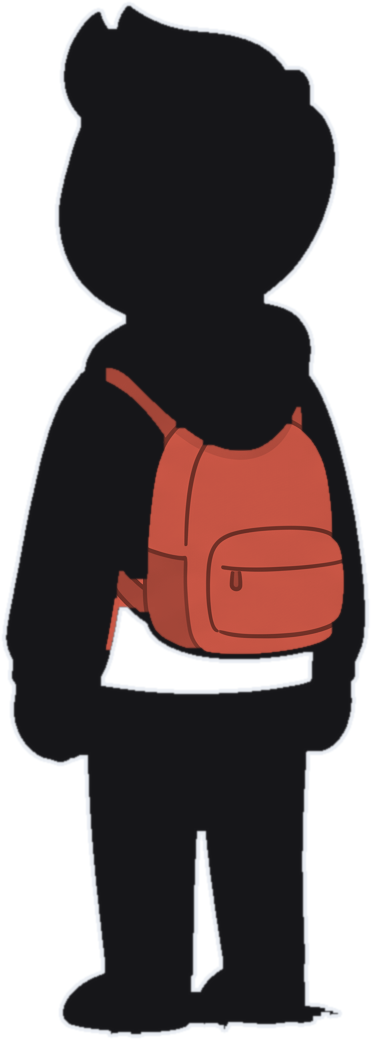
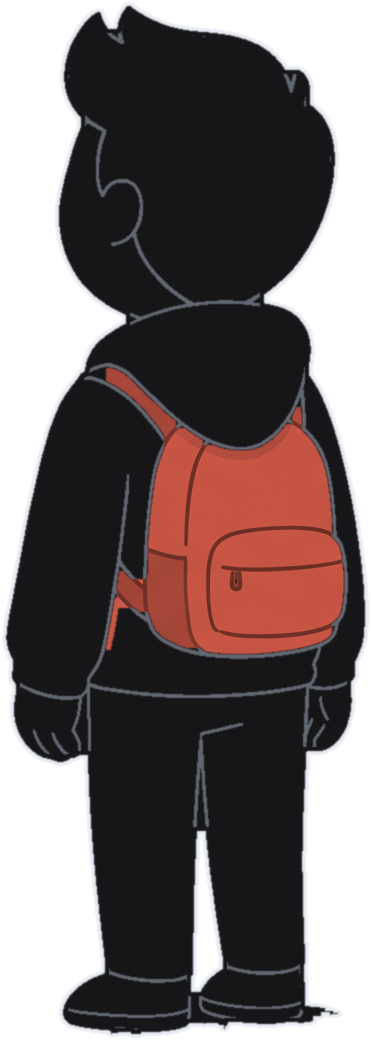
Personnages au style de Léa (cheveux en couleur, yeux blancs, traits fins gris, un détail de couleur, liseré clair) au lieu de silhouettes noires : decors/style_perso.py, enfants du bloc 3 et mère/garçon du bloc 4 re-détourés
Claude-Session: https://claude.ai/code/session_01MgEZztULRvgmbzKu3Bn3uF

diff --git a/video_production/lune/film/decors/style_perso.py b/video_production/lune/film/decors/style_perso.py
@@ -1,0 +1,66 @@
+"""Style des personnages du film, d'après Léa (bloc 2) : corps et visage sombres, MAIS cheveux dans leur couleur,
+yeux blancs ovales, traits fins gris (sourcils, bouche, plis des vêtements, contours intérieurs), un détail de couleur
+(écharpe de Léa, seau rouge, cartables…), liseré clair autour. Appliqué à un dessin en couleur détouré (planche générée).
+
+    out = style_lea(rgb, sil)   # rgb : dessin (h, w, 3) float ; sil : masque de la silhouette (h, w) uint8 0/1
+"""
+import cv2
+import numpy as np
+
+NOIR = np.array([22, 22, 25], np.float32)                     # le noir des personnages (Léa)
+TRAIT = np.array([150, 158, 172], np.float32)                 # traits intérieurs gris clair
+BLANC = np.array([246, 246, 242], np.float32)
+
+
+def _comp(mask, min_area):
+    n, lab, st, _ = cv2.connectedComponentsWithStats(mask.astype(np.uint8))
+    keep = np.zeros(mask.shape, np.uint8)
+    for k in range(1, n):
+        if st[k, 4] >= min_area:
+            keep[lab == k] = 1
+    return keep
+
+
+def masks(rgb, sil):
+    r, g, b = rgb[..., 0], rgb[..., 1], rgb[..., 2]
+    lum = rgb.mean(2)
+    hair = (r > 50) & (r < 150) & (r - g > 16) & (g - b > 4) & (lum < 115) & (sil > 0)          # cheveux bruns / châtains
+    hair = _comp(cv2.morphologyEx(hair.astype(np.uint8), cv2.MORPH_CLOSE, np.ones((7, 7), np.uint8)), 1500)
+    skin = (r > 205) & (g > 150) & (b > 120) & (r - b > 40) & (sil > 0)
+    skin = cv2.morphologyEx(skin.astype(np.uint8), cv2.MORPH_CLOSE, np.ones((5, 5), np.uint8))
+    dark = ((lum < 70) & (sil > 0)).astype(np.uint8)
+    ys = np.where(sil.any(1))[0]; top, bottom = ys.min(), ys.max()
+    head = np.zeros_like(dark); head[: int(top + 0.33 * (bottom - top))] = 1                   # la tête : le tiers du haut
+    thick = cv2.morphologyEx(dark, cv2.MORPH_OPEN, np.ones((13, 13), np.uint8))                 # aplats sombres (≠ traits)
+    dhair = _comp(thick & head & (sil > 0), 1500)                                              # cheveux noirs : à peine plus clairs
+    eyes = []                                                                                  # points sombres entourés de peau
+    n, lab, st, cen = cv2.connectedComponentsWithStats(dark)
+    for k in range(1, n):
+        x, y, w, h, a = st[k]
+        if 40 < a < 2500 and w < 70 and h < 90 and head[int(cen[k][1]), int(cen[k][0])]:
+            reg = (lab[max(0, y - 12):y + h + 12, max(0, x - 12):x + w + 12] == k).astype(np.uint8)
+            ring = cv2.dilate(reg, np.ones((15, 15), np.uint8)) - reg
+            sk = skin[max(0, y - 12):y + h + 12, max(0, x - 12):x + w + 12]
+            if ring.sum() and (sk[ring > 0] > 0).mean() > 0.75:
+                eyes.append((cen[k], max(w, h)))
+    inner = cv2.erode(sil.astype(np.uint8), np.ones((9, 9), np.uint8))
+    lines = (dark - thick) & inner & (cv2.dilate(hair | dhair, np.ones((5, 5), np.uint8)) == 0)
+    return hair, dhair, lines, eyes
+
+
+def style_lea(rgb, sil):
+    hair, dhair, lines, eyes = masks(rgb, sil)
+    out = np.zeros(rgb.shape, np.float32) + NOIR
+    da = cv2.GaussianBlur(dhair.astype(np.float32), (0, 0), 0.8)[..., None]
+    out = out * (1 - da) + np.array([50, 52, 62], np.float32) * da
+    la = cv2.GaussianBlur(lines.astype(np.float32), (0, 0), 0.7)[..., None] * 0.6
+    out = out * (1 - la) + TRAIT * la
+    ha = cv2.GaussianBlur(hair.astype(np.float32), (0, 0), 0.8)[..., None]
+    lum = rgb.mean(2, keepdims=True)
+    hair_col = np.clip(rgb * 1.08 + (rgb - lum) * 0.25, 0, 255)                                # un peu plus vif, comme Léa
+    out = out * (1 - ha) + hair_col * ha
+    em = np.zeros(sil.shape, np.float32)
+    for (cx, cy), s in eyes:                                                                    # yeux : ovales blancs, verticaux
+        cv2.ellipse(em, (int(cx), int(cy)), (max(4, int(s * 0.55)), max(7, int(s * 1.0))), 0, 0, 360, 1, -1, cv2.LINE_AA)
+    em = cv2.GaussianBlur(em, (0, 0), 0.7)[..., None]
+    return out * (1 - em) + BLANC * em

diff --git a/video_production/lune/film/b03/detourer.py b/video_production/lune/film/b03/detourer.py
@@ -6,11 +6,15 @@ silhouette NOIRE pleine (comme Léa), contour fin et discret, et UN SEUL détail
   enf_rayures   cartable bleu
   enf_gris      cartable rouge brique (recoloré : il était gris)
 """
+import sys
 from pathlib import Path
 
 import cv2
 import numpy as np
 from PIL import Image
+
+sys.path.insert(0, str(Path(__file__).resolve().parents[1]))
+from decors.style_perso import style_lea  # noqa: E402
 
 HERE = Path(__file__).resolve().parent
 NOIR = np.array([22, 22, 25], np.float32)                      # le noir des personnages (Léa)
@@ -40,8 +44,9 @@ def accent(rgb, box, test):
     r, g, b = (rgb[y0:y1, x0:x1, c] for c in range(3))
     k[y0:y1, x0:x1] = test(r, g, b, rgb[y0:y1, x0:x1].mean(2)).astype(np.uint8)
     k = cv2.morphologyEx(k, cv2.MORPH_OPEN, np.ones((5, 5), np.uint8))
+    near = cv2.dilate(k, np.ones((11, 11), np.uint8))                                      # pas plus loin que la couleur elle-même
     k = cv2.morphologyEx(k, cv2.MORPH_CLOSE, np.ones((17, 17), np.uint8))
-    return fill_holes(largest(k))
+    return fill_holes(largest(k)) & near
 
 
 ACC = {   # nom : [(rectangle, test de couleur, couleur forcée ou None = couleur d'origine)]
@@ -60,7 +65,7 @@ if __name__ == "__main__":
         lowest = np.where(keep.any(1))[0].max()
         for k in range(1, hn):                                                           # … sauf l'écart entre les jambes
             reg = hl == k
-            if hs[k, 4] > 600 and d[:, x0:x1][reg].mean() < 14 and hs[k, 1] > lowest - 600:
+            if hs[k, 4] > 600 and d[:, x0:x1][reg].mean() < 14 and hs[k, 1] > lowest - 0.3 * (lowest - np.where(keep.any(1))[0].min()):
                 holes[reg] = 0
         keep = keep | holes
         ys, xs = np.where(keep)
@@ -68,7 +73,7 @@ if __name__ == "__main__":
         P = CONTOUR_PX + 2
         sil = np.pad(keep[y0:y1, xa:xb], P)
         rgb = np.pad(im[:, x0:x1][y0:y1, xa:xb], ((P, P), (P, P), (0, 0)))
-        out = np.zeros(rgb.shape, np.float32) + NOIR
+        out = style_lea(rgb, sil.astype(np.uint8))                                       # style de Léa (cheveux, yeux, traits)
         for box, test, col in ACC[name]:
             bx = tuple(v + P for v in box)                                              # rectangle : coordonnées du calque sans marge
             a = accent(rgb, bx, test) & sil

diff --git a/video_production/lune/film/b04/detourer.py b/video_production/lune/film/b04/detourer.py
@@ -8,6 +8,9 @@ import cv2
 import numpy as np
 from PIL import Image
 
+sys.path.insert(0, str(Path(__file__).resolve().parents[1]))
+from decors.style_perso import style_lea  # noqa: E402
+
 HERE = Path(__file__).resolve().parent
 sys.path.insert(0, str(HERE.parent))
 from b03.detourer import CONTOUR, CONTOUR_A, CONTOUR_PX, NOIR, fill_holes, largest  # noqa: E402
@@ -27,7 +30,7 @@ if __name__ == "__main__":
         lowest = np.where(keep.any(1))[0].max()
         for k in range(1, hn):                                                           # écart entre les jambes : vide
             reg = hl == k
-            if hs[k, 4] > 600 and d[:, x0:x1][reg].mean() < 14 and hs[k, 1] > lowest - 700:
+            if hs[k, 4] > 600 and d[:, x0:x1][reg].mean() < 14 and hs[k, 1] > lowest - 0.3 * (lowest - np.where(keep.any(1))[0].min()):
                 holes[reg] = 0
         keep = keep | holes
         ys, xs = np.where(keep)
@@ -35,7 +38,7 @@ if __name__ == "__main__":
         P = CONTOUR_PX + 2
         sil = np.pad(keep[y0:y1, xa:xb], P)
         rgb = np.pad(im[:, x0:x1][y0:y1, xa:xb], ((P, P), (P, P), (0, 0)))
-        out = np.zeros(rgb.shape, np.float32) + NOIR
+        out = style_lea(rgb, sil.astype(np.uint8))                                       # style de Léa (cheveux, yeux, traits)
         if name.startswith("garcon"):                                                    # le seau rouge (et son anse sombre reste noire)
             a = RED(rgb[..., 0], rgb[..., 1], rgb[..., 2]).astype(np.uint8)
             a = cv2.morphologyEx(a, cv2.MORPH_CLOSE, np.ones((9, 9), np.uint8))
